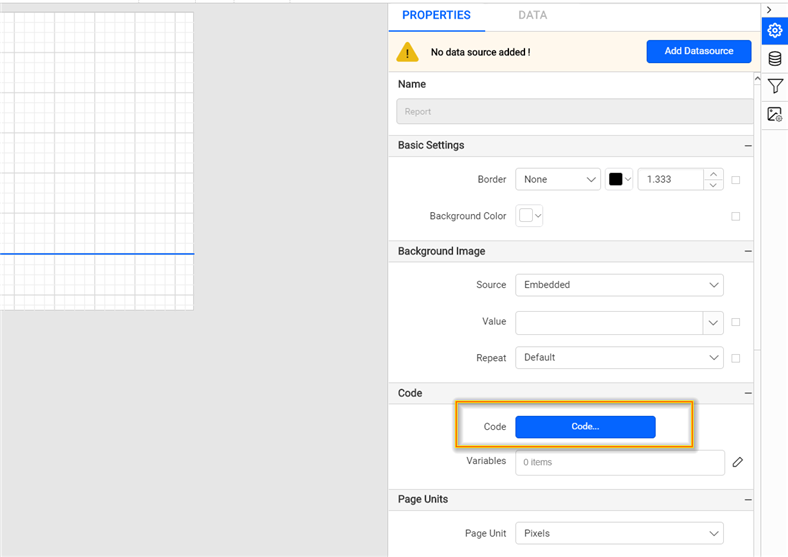
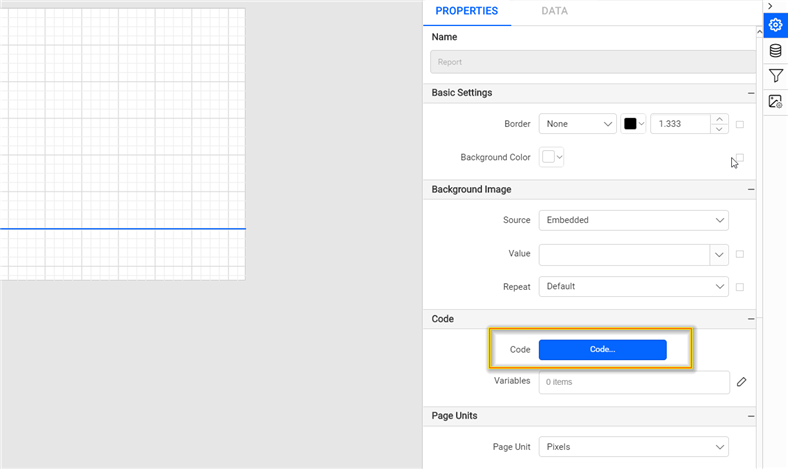
documentation(REPORT-7071): Improve the code module documentation

diff --git a/docs/designer-guide/report-designer/compose-report/code-module.md b/docs/designer-guide/report-designer/compose-report/code-module.md
@@ -8,14 +8,15 @@ keywords: ejReportDesigner, reportdesigner, code, assemblies, class
 
 Code Module is used to add a custom code or custom assemblies to a report. Code module allows to add references to custom code embedded in a report or generated with custom assemblies.
 
-![Open code module](/static/assets/on-premise/images/report-designer/compose-report/code-module/open-code-module.png)
-
 ## Add Custom Code to a report
 
 1. Click on the outer grey surface report area and then click on the **Properties** icon to open **Report Properties**.
+    ![open-properies](/static/assets/on-premise/images/report-designer/compose-report/unit-switcher/open-properties.png)
+2. The custom code option is listed under `Code` category, click on the **Code...** button to open `Code Module` dialog.
     ![report-properies](/static/assets/on-premise/images/report-designer/compose-report/unit-switcher/report-properties.png)
-2. Click on the **Code...** button to open `Code Module` dialog.
-3. In the code tab, type the code snippet as shown below. The following code example demonstrates the custom function that return the color string, based on the given value range.
+3. In the code tab, type the codes in Visual Basic (VB) language. 
+    ![Open code module](/static/assets/on-premise/images/report-designer/compose-report/code-module/open-code-module.png)
+4. The following code example demonstrates the custom function that return the color string, based on the given value range.
 
     ```basic
     Public Function GetColor(ByVal TotalSales As Decimal) As String
@@ -34,11 +35,11 @@ Code Module is used to add a custom code or custom assemblies to a report. Code 
     ```
 
     ![Enter custom code](/static/assets/on-premise/images/report-designer/compose-report/code-module/code-section.png)
-4. Click on the **OK** button.
-5. Use the following expression, to call the custom code function in the report.
+5. Click on the **OK** button.
+6. Use the following expression, to call the custom code function in the report.
     ![Call custom code function](/static/assets/on-premise/images/report-designer/compose-report/code-module/custom-code-expression.png)
 Refer [Expression](./../../compose-report/expressions/) section to learn more about handling expressions.
-6. To view the color changes based on the price range in a report, click `Preview`.
+7. To view the color changes based on the price range in a report, click `Preview`.
 ![Preview custom code](/static/assets/on-premise/images/report-designer/compose-report/code-module/custom-code-preview.png)
 
 ## Add Assembly References
